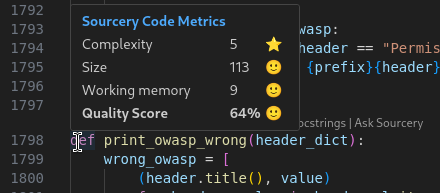
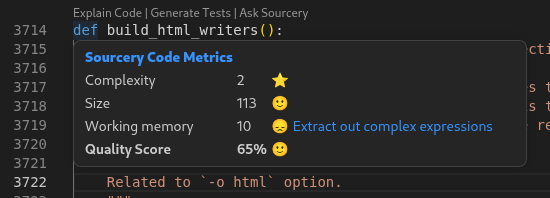
Minor: CONTRIBUTING updated

diff --git a/CONTRIBUTING.md b/CONTRIBUTING.md
@@ -24,12 +24,12 @@ Contributing
 
 * When contributing code, it must be <b>optimized</b>. My personal criterion is that every class, function, and method must achieve at least a <b>B</b> rank in [Radon's](https://radon.readthedocs.io/en/latest/commandline.html#the-cc-command) Cyclomatic Complexity analysis; otherwise review your changes and try to optimize and simplify them:
 <p align="center">
-<img src="https://github.com/rfc-st/humble/blob/master/screenshots/humble_radon.PNG" alt="Radon analysis shows no objects with a rank worse than 'B'." width=40% height=40%>
+<img src="https://github.com/rfc-st/humble/blob/master/screenshots/humble_radon.PNG" alt="Radon analysis shows no objects with a rank worse than 'B'.">
 </p>
 
-* Also make sure that the functions you add or modify achieve at least a <b>64%</b> Quality Score in [Sourcery's](https://docs.sourcery.ai/Coding-Assistant/Reference/Metrics/#quality-score) analysis; otherwise review your changes and try to optimize and simplify them:
+* Also make sure that the functions you add or modify achieve at least a <b>65%</b> Quality Score in [Sourcery's](https://docs.sourcery.ai/Coding-Assistant/Reference/Metrics/#quality-score) analysis; otherwise review your changes and try to optimize and simplify them:
 <p align="center">
-<img src="https://github.com/rfc-st/humble/blob/master/screenshots/humble_sourcery.PNG" alt="Sourcery analysis shows a Quality Score of 64%" width=40% height=40%>
+<img src="https://github.com/rfc-st/humble/blob/master/screenshots/humble_sourcery.PNG" alt="Sourcery analysis shows a Quality Score of 65%">
 </p>
 
 * Finally, I have my <i>quirks</i> :), and I may not accept your Pull Request for certain reasons that I will <b>always</b> explain in the request itself. That, of course, doesn't mean that I don't value your interest, your time or your code: <b>always</b>, if I end up implementing your idea, I <b>will mention you</b> in the [Acknowledgements](https://github.com/rfc-st/humble/#acknowledgements) section.
